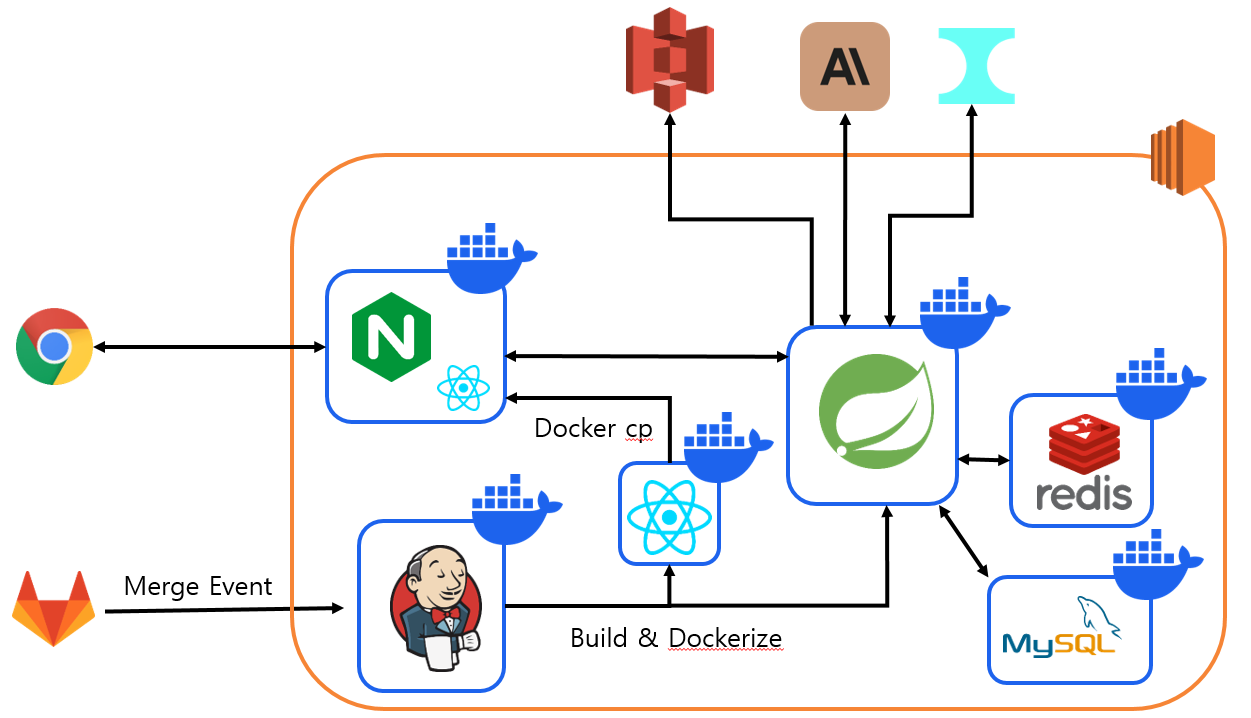
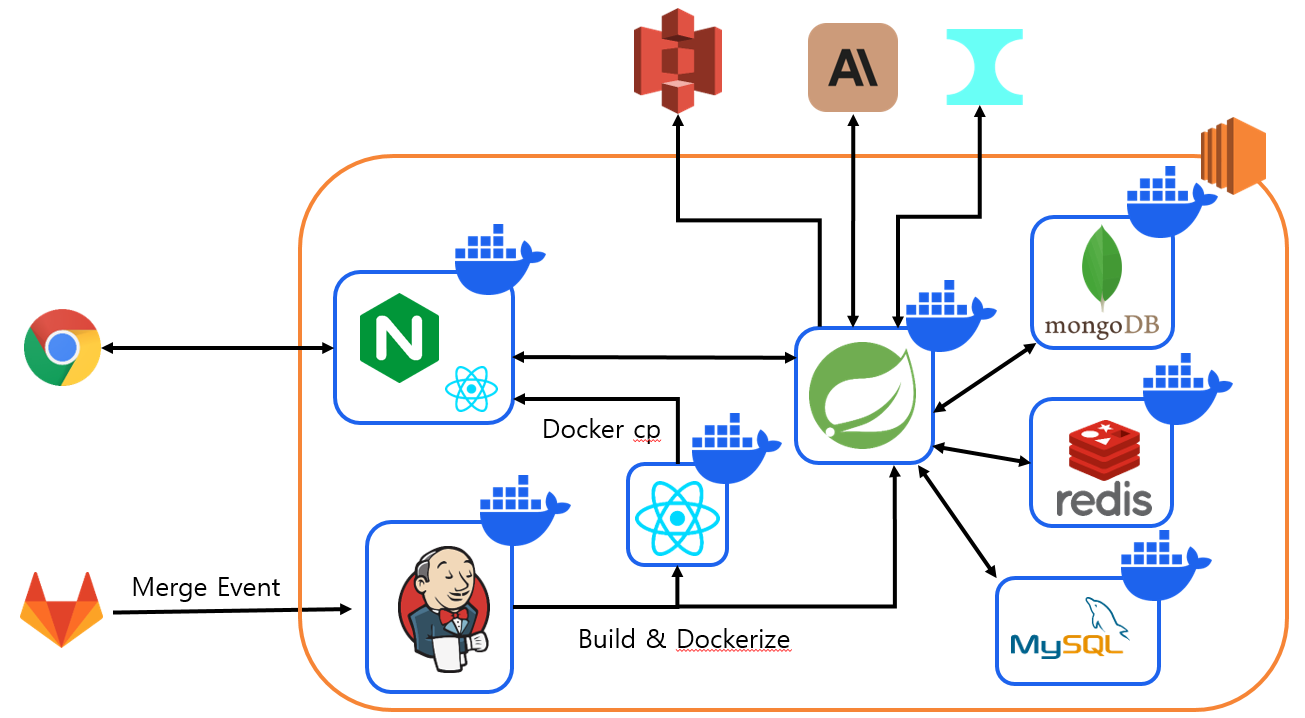
chore: update porting manual

Changed region(s): [[0.0, 0.0, 0.9976, 1.0], [0.0, 0.429, 0.0935, 0.5515], [0.9353, 0.1532, 0.9664, 0.1838]]

diff --git a/exec/포팅 매뉴얼.md b/exec/포팅 매뉴얼.md
@@ -296,6 +296,11 @@ docker run --name docker-mysql -e MYSQL_ROOT_PASSWORD={password} -d -p 3306:3306
 docker pull redis
 
 docker run --name docker-redis -d -p 6379:6379 redis
+
+# mongodb
+docker pull mongo
+
+docker run --name docker-mongo -p 27017:27017 -e MONGO_INITDB_ROOT_USERNAME=root -e MONGO_INITDB_ROOT_PASSWORD={password} -d mongo
 ```
 
 ## Nginx 설정
